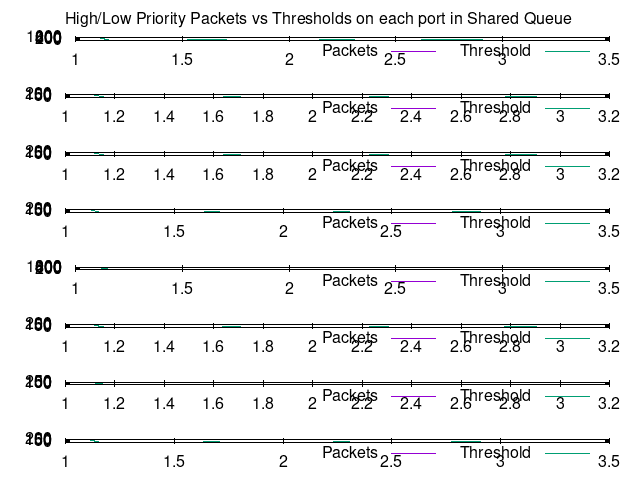
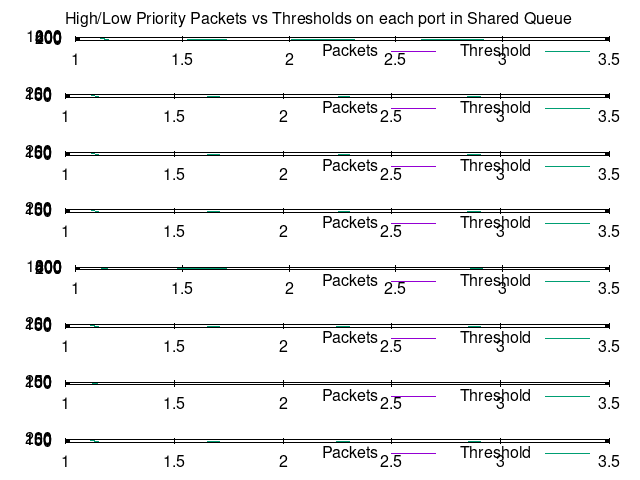
comit 15: updated "sub-queue-index" for MultiQueue scenario. fixed ProducePlots_v03

diff --git a/src/traffic-control/model/traffic-control-layer.cc b/src/traffic-control/model/traffic-control-layer.cc
@@ -35,6 +35,7 @@
 #include <tuple>
 #include <string>
 
+
 namespace ns3
 {
 
@@ -1425,8 +1426,9 @@ TrafficControlLayer::Send(Ptr<NetDevice> device, Ptr<QueueDiscItem> item)
             if (m_useSharedBuffer)  // if user choses to activate Shared-Buffer algorythem
             {
                 // determine the port index of current net-device:
-                size_t portIndex = GetNetDeviceIndex(device);
+                size_t netDeviceIndex = GetNetDeviceIndex(device);
                 // std::cout << "Index of '" << device << "': " << portIndex << std::endl;
+                size_t portIndex = netDeviceIndex - 2;  // the index of the current TxPort on the Shared Buffer
 
                 ///for Shared Buffer. in case no queue-disc is installed on the NetDevice////////
                 // std::cout << "SharedBuffer, No QueueDisc" << std::endl;
@@ -1471,11 +1473,11 @@ TrafficControlLayer::Send(Ptr<NetDevice> device, Ptr<QueueDiscItem> item)
                             if (queue->GetNumOfHighPrioPacketsInQueue().GetValue() < GetQueueThreshold_DT(m_alpha, m_alpha_l, m_alpha_h).GetValue())
                             {
                                 // to trace Threshold per port
-                                if (portIndex == 2)
+                                if (portIndex == 0)
                                 {
                                     m_p_trace_threshold_h_0 = GetQueueThreshold_DT(m_alpha, m_alpha_l, m_alpha_h).GetValue();  // for tracing
                                 }
-                                else if (portIndex == 3)
+                                else if (portIndex == 1)
                                 {
                                     m_p_trace_threshold_h_1 = GetQueueThreshold_DT(m_alpha, m_alpha_l, m_alpha_h).GetValue();  // for tracing
                                 }
@@ -1505,11 +1507,11 @@ TrafficControlLayer::Send(Ptr<NetDevice> device, Ptr<QueueDiscItem> item)
                             if (queue->GetNumOfHighPrioPacketsInQueue().GetValue() < GetQueueThreshold_FB_v2(m_alpha, m_alpha_l, m_alpha_h, conjestedQueues, gamma_i).GetValue())
                             {
                                 // to trace Threshold per port
-                                if (portIndex == 2)
+                                if (portIndex == 0)
                                 {
                                     m_p_trace_threshold_h_0 = GetQueueThreshold_FB_v2(m_alpha, m_alpha_l, m_alpha_h, conjestedQueues, gamma_i).GetValue();  // for tracing
                                 }
-                                else if (portIndex == 3)
+                                else if (portIndex == 1)
                                 {
                                     m_p_trace_threshold_h_1 = GetQueueThreshold_FB_v2(m_alpha, m_alpha_l, m_alpha_h, conjestedQueues, gamma_i).GetValue();  // for tracing
                                 }
@@ -1540,11 +1542,11 @@ TrafficControlLayer::Send(Ptr<NetDevice> device, Ptr<QueueDiscItem> item)
                             // if (GetNumOfLowPriorityPacketsInSharedQueue().GetValue() < GetQueueThreshold_DT(alpha, alpha_l, alpha_h).GetValue())
                             {
                                 // to trace Threshold per port
-                                if (portIndex == 2)
+                                if (portIndex == 0)
                                 {
                                     m_p_trace_threshold_l_0 = GetQueueThreshold_DT(m_alpha, m_alpha_l, m_alpha_h).GetValue();  // for tracing
                                 }
-                                else if (portIndex == 3)
+                                else if (portIndex == 1)
                                 {
                                     m_p_trace_threshold_l_1 = GetQueueThreshold_DT(m_alpha, m_alpha_l, m_alpha_h).GetValue();  // for tracing
                                 }
@@ -1570,11 +1572,11 @@ TrafficControlLayer::Send(Ptr<NetDevice> device, Ptr<QueueDiscItem> item)
                             if (queue->GetNumOfLowPrioPacketsInQueue().GetValue() < GetQueueThreshold_FB_v2(m_alpha, m_alpha_l, m_alpha_h, conjestedQueues, gamma_i).GetValue())
                             {
                                                                 // to trace Threshold per port
-                                if (portIndex == 2)
+                                if (portIndex == 0)
                                 {
                                     m_p_trace_threshold_l_0 = GetQueueThreshold_FB_v2(m_alpha, m_alpha_l, m_alpha_h, conjestedQueues, gamma_i).GetValue();  // for tracing
                                 }
-                                else if (portIndex == 3)
+                                else if (portIndex == 1)
                                 {
                                     m_p_trace_threshold_l_1 = GetQueueThreshold_FB_v2(m_alpha, m_alpha_l, m_alpha_h, conjestedQueues, gamma_i).GetValue();  // for tracing
                                 }
@@ -1618,8 +1620,9 @@ TrafficControlLayer::Send(Ptr<NetDevice> device, Ptr<QueueDiscItem> item)
         if (m_useSharedBuffer)
         {
             // determine the port index of current net-device:
-            size_t portIndex = GetNetDeviceIndex(device);
+            size_t netDeviceIndex = GetNetDeviceIndex(device);
             // std::cout << "Index of '" << device << "': " << portIndex << std::endl;
+            size_t portIndex = netDeviceIndex - 2;  // the index of the current TxPort on the Shared Buffer
             
             std::string nodeName = Names::FindName(m_node);  // Get the name of the Node
             // std::cout << "Node Name is: " << nodeName << std::endl;
@@ -1636,14 +1639,6 @@ TrafficControlLayer::Send(Ptr<NetDevice> device, Ptr<QueueDiscItem> item)
                 m_nPackets_trace_High_InSharedQueue = GetNumOfHighPriorityPacketsInSharedQueue().GetValue();
                 m_nPackets_trace_Low_InSharedQueue = GetNumOfLowPriorityPacketsInSharedQueue().GetValue();
                 
-                // set a besic Packet clasification based on arbitrary Tag from recieved packet:
-                // flow_priority = 1 is high priority, flow_priority = 2 is low priority
-
-                if (item->GetPacket ()->PeekPacketTag (flowPrioTag))
-                {
-                    m_flow_priority = flowPrioTag.GetSimpleValue();
-                }
-
                 // Enqueue the packet in the queue disc associated with the netdevice queue
                 // selected for the packet and try to dequeue packets from such queue disc
                 item->SetTxQueueIndex(txq);
@@ -1652,13 +1647,30 @@ TrafficControlLayer::Send(Ptr<NetDevice> device, Ptr<QueueDiscItem> item)
                 Ptr<QueueDisc> internal_qDisc;  // for the multiqueue case
                 if (ndi->second.m_rootQueueDisc->GetNQueueDiscClasses() > 1)  // if we use multiple queues/port. 
                 {
-                    internal_qDisc = qDisc->GetQueueDiscClass(m_flow_priority - 1)->GetQueueDisc();
+                    Priomap prio2band = {3, 0, 2, 0, 1, 0, 0, 0, 0, 0, 0, 0, 0, 0, 0, 0}; // need to find a way to bind priomap to the main function
+                    uint16_t subQueueIndex = prio2band[0];
+                    
+                    SocketPriorityTag priorityTag;
+                    if (item->GetPacket()->PeekPacketTag(priorityTag))
+                    {
+                        subQueueIndex = prio2band[priorityTag.GetPriority() & 0x0f];
+                    }
+                    
+                    internal_qDisc = qDisc->GetQueueDiscClass(subQueueIndex)->GetQueueDisc();
                     NS_ASSERT(internal_qDisc);
                     m_multiQueuePerPort = true;
                 }
                 else
                 {
                     internal_qDisc = qDisc;
+                }
+                
+                // set a besic Packet clasification based on arbitrary Tag from recieved packet:
+                // flow_priority = 1 is high priority, flow_priority = 2 is low priority
+
+                if (item->GetPacket ()->PeekPacketTag (flowPrioTag))
+                {
+                    m_flow_priority = flowPrioTag.GetSimpleValue();
                 }
                 
                 ///for Shared Buffer.
@@ -1674,11 +1686,11 @@ TrafficControlLayer::Send(Ptr<NetDevice> device, Ptr<QueueDiscItem> item)
                         // if (qDisc->GetQueueDiscClass(flow_priority-1)->GetQueueDisc()->GetNumOfHighPrioPacketsInQueue().GetValue() < GetQueueThreshold_DT(alpha, alpha_l, alpha_h).GetValue())
                         {
                             // to trace Threshold per port
-                            if (portIndex == 2)
+                            if (portIndex == 0)
                             {
                                 m_p_trace_threshold_h_0 = GetQueueThreshold_DT(m_alpha, m_alpha_l, m_alpha_h).GetValue();  // for tracing
                             }
-                            else if (portIndex == 3)
+                            else if (portIndex == 1)
                             {
                                 m_p_trace_threshold_h_1 = GetQueueThreshold_DT(m_alpha, m_alpha_l, m_alpha_h).GetValue();  // for tracing
                             }
@@ -1708,11 +1720,11 @@ TrafficControlLayer::Send(Ptr<NetDevice> device, Ptr<QueueDiscItem> item)
                         if (internal_qDisc->GetNumOfHighPrioPacketsInQueue().GetValue() < GetQueueThreshold_FB_v2(m_alpha, m_alpha_l, m_alpha_h, conjestedQueues, gamma_i).GetValue())
                         {
                             // to trace Threshold per port
-                            if (portIndex == 2)
+                            if (portIndex == 0)
                             {
                                 m_p_trace_threshold_h_0 = GetQueueThreshold_FB_v2(m_alpha, m_alpha_l, m_alpha_h, conjestedQueues, gamma_i).GetValue();  // for tracing
                             }
-                            else if (portIndex == 3)
+                            else if (portIndex == 1)
                             {
                                 m_p_trace_threshold_h_1 = GetQueueThreshold_FB_v2(m_alpha, m_alpha_l, m_alpha_h, conjestedQueues, gamma_i).GetValue();  // for tracing
                             }
@@ -1740,11 +1752,11 @@ TrafficControlLayer::Send(Ptr<NetDevice> device, Ptr<QueueDiscItem> item)
                         if (internal_qDisc->GetNumOfLowPrioPacketsInQueue().GetValue() < GetQueueThreshold_DT(m_alpha, m_alpha_l, m_alpha_h).GetValue())
                         {
                             // to trace Threshold per port
-                            if (portIndex == 2)
+                            if (portIndex == 0)
                             {
                                 m_p_trace_threshold_l_0 = GetQueueThreshold_DT(m_alpha, m_alpha_l, m_alpha_h).GetValue();  // for tracing
                             }
-                            else if (portIndex == 3)
+                            else if (portIndex == 1)
                             {
                                 m_p_trace_threshold_l_1 = GetQueueThreshold_DT(m_alpha, m_alpha_l, m_alpha_h).GetValue();  // for tracing
                             }
@@ -1770,11 +1782,11 @@ TrafficControlLayer::Send(Ptr<NetDevice> device, Ptr<QueueDiscItem> item)
                         if (internal_qDisc->GetNumOfLowPrioPacketsInQueue().GetValue() < GetQueueThreshold_FB_v2(m_alpha, m_alpha_l, m_alpha_h, conjestedQueues, gamma_i).GetValue())
                         {
                             // to trace Threshold per port
-                            if (portIndex == 2)
+                            if (portIndex == 0)
                             {
                                 m_p_trace_threshold_l_0 = GetQueueThreshold_FB_v2(m_alpha, m_alpha_l, m_alpha_h, conjestedQueues, gamma_i).GetValue();  // for tracing
                             }
-                            else if (portIndex == 3)
+                            else if (portIndex == 1)
                             {
                                 m_p_trace_threshold_l_1 = GetQueueThreshold_FB_v2(m_alpha, m_alpha_l, m_alpha_h, conjestedQueues, gamma_i).GetValue();  // for tracing
                             }

diff --git a/scratch/ProducePlots_v03.cc b/scratch/ProducePlots_v03.cc
@@ -36,7 +36,7 @@ ToString (uint32_t value)
 
 std::string usedAlgorythm = "DT";  // "DT"/"FB"
 std::string implementation = "via_MultiQueues/4_ToS";  // "via_NetDevices"/"via_FIFO_QueueDiscs"/"via_MultiQueues"/"via_MultiQueues/2_ToS"/"via_MultiQueues/4_ToS"
-// std::string noumOfToS = "2";  // "2"/"4"
+std::size_t numOfSubQueues = static_cast<size_t>(implementation[implementation.length() - 5] - '0');
 std::string dir = "./Trace_Plots/";
 std::string topology = "2In2Out";  // "Line"/"Incast"/"2In2Out"
 std::string traffic_control_type; // "SharedBuffer_DT_v01"/"SharedBuffer_FB_v01"
@@ -85,10 +85,10 @@ CreateSingle2DPlotFile(size_t portInd, size_t queueInd, std::string priority)  /
   std::string trace_parameter2 = "TrafficControl" + priority + "PriorityQueueThreshold_" + ToString(portInd);
   // can plot as many trace parameters as I wish
   std::string location = dir + topology + "_Topology/" + traffic_control_type + "/" + implementation + "/";
-  std::string graphicsFileName = location + "port_" + ToString(portInd) + "_" + priority + ".png";
-  std::string plotFileName = location + "port_" + ToString(portInd) + "_" + priority + ".plt";
+  std::string graphicsFileName = location + "port_" + ToString(portInd) + "_queue_" + ToString(queueInd) + "_" + priority + ".png";
+  std::string plotFileName = location + "port_" + ToString(portInd) + "_queue_" + ToString(queueInd) + "_" + priority + ".plt";
 
-  std::string plotTitle = priority + " Priority Packets vs Threshold";
+  std::string plotTitle = "port " + ToString(portInd) + " queue " + ToString(queueInd) + " " + priority + " Priority Packets vs Threshold";
   
   // std::string dataTitle = trace_parameter;
 
@@ -111,8 +111,8 @@ CreateSingle2DPlotFile(size_t portInd, size_t queueInd, std::string priority)  /
   // std::cout << "load data from file: " << location + trace_parameter1 + ".dat" << std::endl;
   
   double x, y;
-  x=0;
-  y=0;
+  x = 0;
+  y = 0;
 
   while (file1 >> x >> y) 
   {
@@ -178,7 +178,6 @@ CreateSingle2DMultiPlotFile()  // for a multiplot, with N data-sets each
   std::map<std::string, std::string> trace_parameter1_array;
   std::map<std::string, std::string> trace_parameter2_array;
 
-  size_t numOfSubQueues = static_cast<size_t>(implementation[implementation.length() - 5] - '0');
   for (size_t i = 0; i < 2; i++) // iterate over port
   {
     for (size_t j = 0; j < numOfSubQueues; j++)  // iterate over sub-queue
@@ -288,6 +287,15 @@ CreateAllPlotFiles()  // create a multiplot and all the sub plots sepperatly
   CreateSingle2DPlotFile(0, 1, "Low");
   CreateSingle2DPlotFile(1, 0, "High");
   CreateSingle2DPlotFile(1, 1, "Low");
+  
+  if (numOfSubQueues > 2)
+  {
+    CreateSingle2DPlotFile(0, 2, "Low");
+    CreateSingle2DPlotFile(0, 3, "Low");
+    CreateSingle2DPlotFile(1, 2, "Low");
+    CreateSingle2DPlotFile(1, 3, "Low");
+  }
+
   CreateSingle2DMultiPlotFile();
 }
 

diff --git a/src/traffic-control/model/round-robin-prio-queue-disc.cc b/src/traffic-control/model/round-robin-prio-queue-disc.cc
@@ -159,45 +159,6 @@ RoundRobinPrioQueueDisc::DoEnqueue(Ptr<QueueDiscItem> item)
     return retval;
 }
 
-// original DoDequeue function
-// Ptr<QueueDiscItem>
-// RoundRobinPrioQueueDisc::DoDequeue()
-// {
-//     NS_LOG_FUNCTION(this);
-
-//     Ptr<QueueDiscItem> item;
-
-//     for (uint32_t i = 0; i < GetNQueueDiscClasses(); i++)
-//     {
-//         if ((item = GetQueueDiscClass(i)->GetQueueDisc()->Dequeue()))
-//         {
-//             NS_LOG_LOGIC("Popped from band " << i << ": " << item);
-//             NS_LOG_LOGIC("Number packets band "
-//                          << i << ": " << GetQueueDiscClass(i)->GetQueueDisc()->GetNPackets());
-//             // for debug:
-//             std::cout << "Packet dequeued from band: " << i << std::endl;
-//             std::cout << "Number of packets in band " << i << ": " << GetQueueDiscClass(i)->GetQueueDisc()->GetNPackets() << std::endl;
-//             //////////////
-//             return item;
-//         }
-//     }
-
-//     NS_LOG_LOGIC("Queue empty");
-//     return item;
-// }
-
-
-// Calculate the total weight of all non-empty queues
-// double totalWeight = 0.0;
-// for (size_t i = 0; i < GetNQueueDiscClasses(); i++) 
-// {
-//     if (!GetQueueDiscClass(i)->GetQueueDisc()->Peek() == 0) 
-//     {
-//         totalWeight += m_weights[i];
-//     }
-// }
-
-
 // Round-Robbin DoDequeue:
 Ptr<QueueDiscItem>
 RoundRobinPrioQueueDisc::DoDequeue()

diff --git a/scratch/2In2Out_P2P_v01_SharedBuffer_TrafficControl_via_MultiQueue_4_ToS.cc b/scratch/2In2Out_P2P_v01_SharedBuffer_TrafficControl_via_MultiQueue_4_ToS.cc
@@ -490,11 +490,11 @@ int main (int argc, char *argv[])
         InetSocketAddress socketAddressP0 = InetSocketAddress (recieverIFs.GetAddress(recieverIndex), SERV_PORT_P0);
         socketAddressP0.SetTos(ipTos_HP);  // ToS 0x10 -> High priority
         InetSocketAddress socketAddressP1 = InetSocketAddress (recieverIFs.GetAddress(recieverIndex), SERV_PORT_P1);
-        socketAddressP1.SetTos(ipTos_LP1);  // ToS 0x0 -> Low priority
+        socketAddressP1.SetTos(ipTos_LP1);  // ToS 0x00 -> Low priority
         InetSocketAddress socketAddressP2 = InetSocketAddress (recieverIFs.GetAddress(recieverIndex), SERV_PORT_P2);
-        socketAddressP2.SetTos(ipTos_LP2);  // ToS 0x1 -> Low priority
+        socketAddressP2.SetTos(ipTos_LP2);  // ToS 0x08 -> Low priority
         InetSocketAddress socketAddressP3 = InetSocketAddress (recieverIFs.GetAddress(recieverIndex), SERV_PORT_P3);
-        socketAddressP3.SetTos(ipTos_LP3);  // ToS 0x2 -> Low priority
+        socketAddressP3.SetTos(ipTos_LP3);  // ToS 0x18 -> Low priority
         
         // create and install Client apps:    
         if (applicationType.compare("standardClient") == 0) 

diff --git a/src/traffic-control/model/traffic-control-layer.h b/src/traffic-control/model/traffic-control-layer.h
@@ -33,6 +33,7 @@
 #include <map>
 #include <vector>
 #include <string>
+#include <array>
 
 namespace ns3
 {
@@ -40,6 +41,9 @@ namespace ns3
 class Packet;
 class QueueDisc;
 class NetDeviceQueueInterface;
+
+/// Priority map
+typedef std::array<uint16_t, 16> Priomap;
 
 /**
  * \defgroup traffic-control Traffic Control model
